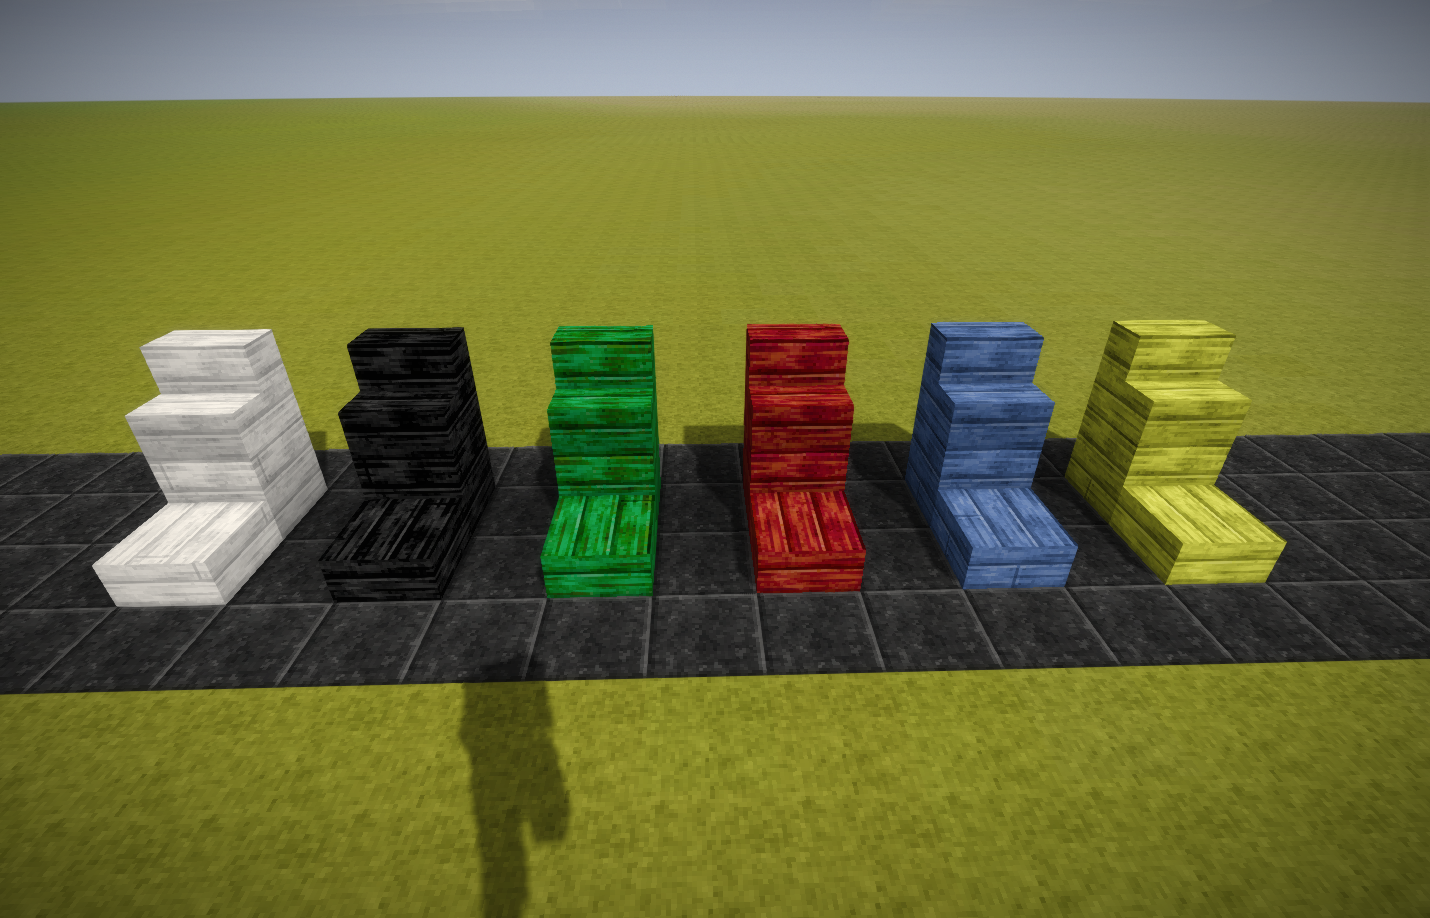
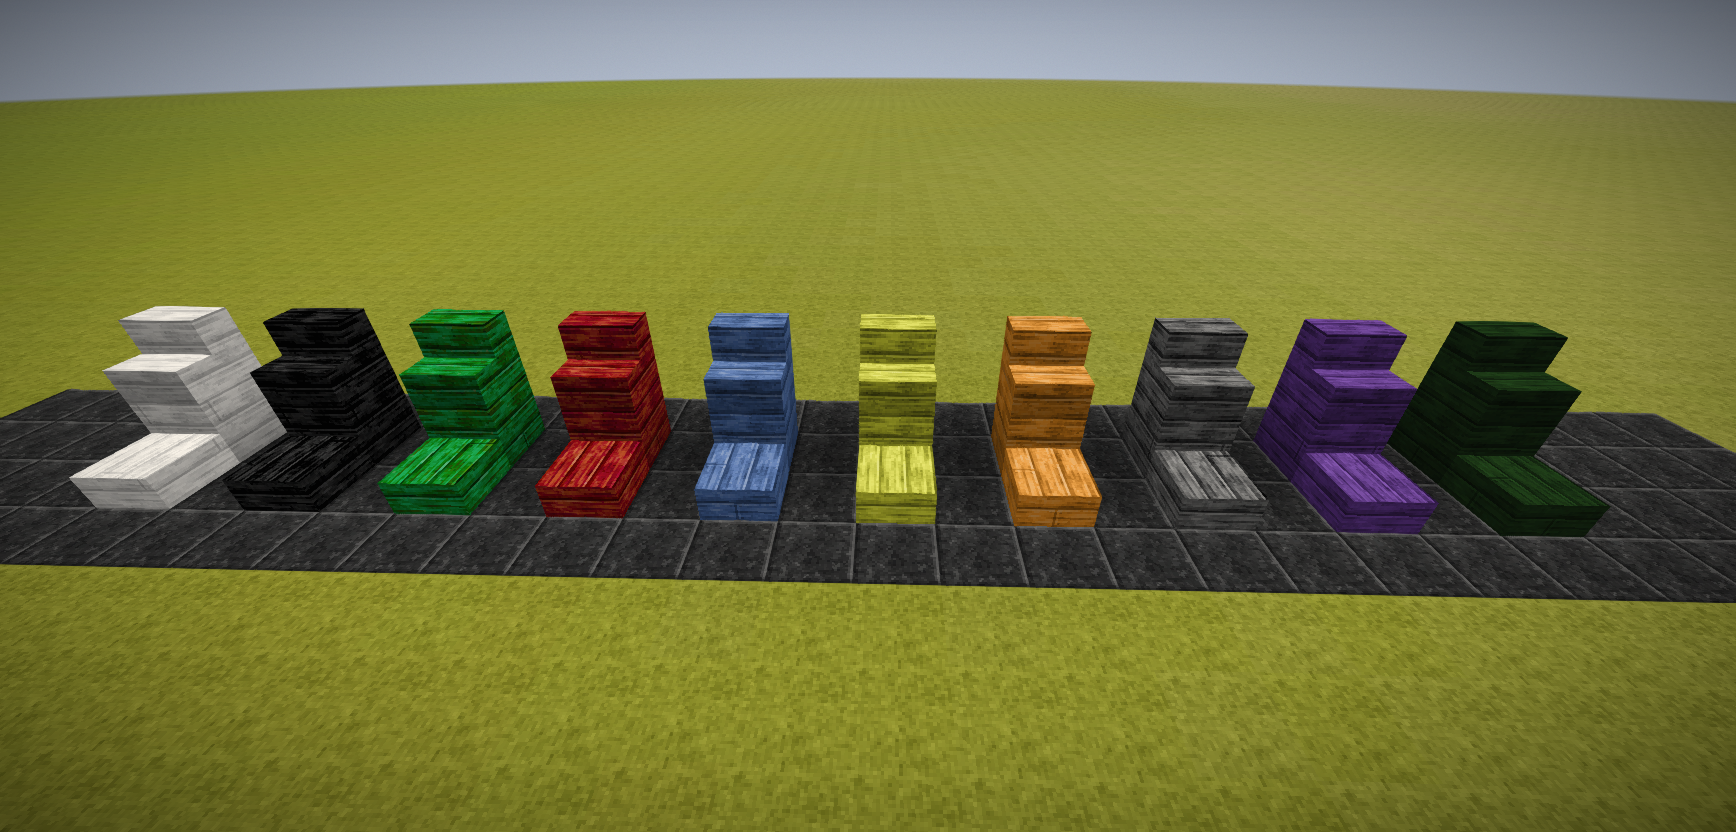
updated readme and new blocks screenshot

diff --git a/README.md b/README.md
@@ -3,7 +3,7 @@ A VintageStory Mod that adds paint preparation and coloured planks
 
 ## New blocks
 
-Planks, plank slabs, plank stairs in nine new colours: white, black, red, green, blue, yellow, orange, grey, purple, dark green.
+Planks, plank slabs, plank stairs new colours: white, black, red, green, blue, yellow, orange, grey, purple, dark green.
 
 ![New blocks](screenshots/newblocks.png)
 
